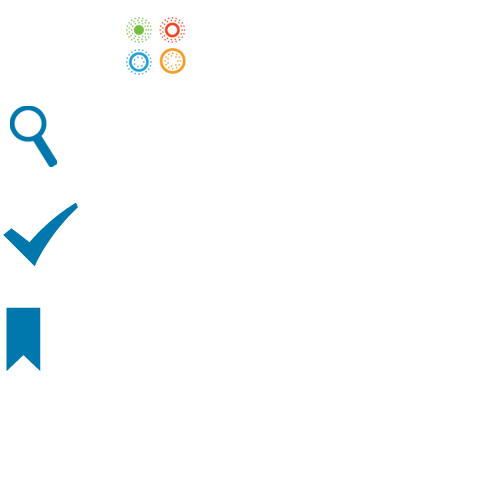
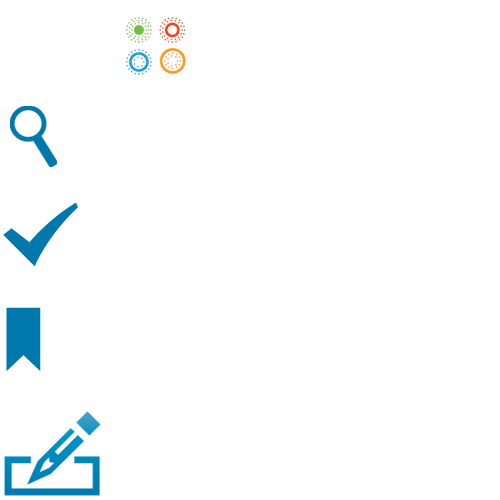
more_info start

Changed region(s): [[0.0, 0.81, 0.21, 1.0]]

diff --git a/public/stylesheets/verisk.css b/public/stylesheets/verisk.css
@@ -342,8 +342,9 @@ header #top_links li.divider a {
   background: url(../images/service_pages/gray_box_bg.png) repeat-x scroll 0 0 #DEDEDE;
 }
 .gray_box.thin {
-  width: 938px;
+  width: 936px;
   padding: 0px;
+  margin-left: 1px;
 }
 .gray_box h2 {
   font-size: 20px;
@@ -357,7 +358,7 @@ header #top_links li.divider a {
   padding: 10px;
   position: relative;
   text-align: center;
-  width: 287px;
+  width: 290px;
   font-size: 12px;
 }
 .gray_sub_box.single {
@@ -372,6 +373,9 @@ header #top_links li.divider a {
 }
 .gray_sub_box span.top_title {
   font-weight: 500;
+}
+.gray_sub_box span, .gray_sub_box p {
+  font-family: Helvetica, Arial, sans-serif;
 }
 .gray_sub_box h2 {
    padding: 9px 0 2px;
@@ -496,6 +500,14 @@ aside div.sidebar, div.sidebar {
   border-top: 1px solid #CCCCCC;
   clear: both;
   margin: 25px 15px 25px 0px;
+}
+#more_info header.main {
+  font-size: 36px;
+  height: 46px;
+}
+#more_info header.sub_header {
+  font-size: 28px;
+  height: 46px;
 }
 /*****************************************************************************************************************/
 /*********************************************************************************** TEXT LOGOS ******************/
@@ -2416,6 +2428,17 @@ footer {
   color: #fff;
   text-decoration: none;
 }
+#resource_links .button a {
+  display: block;
+  width: 100%;
+  height: 100%;
+  position: absolute;
+  top: 0px;
+  left: 0px;
+  padding-top: 12px;
+  padding-left: 10px;
+  z-index: 2;
+}
 #resource_links .button.right_side {
   margin-right: 0px;
 }
@@ -2521,4 +2544,16 @@ select{padding:4px 0px;}
 select:focus{border:2px solid #72bf44;}
 div.field{float:left;margin:5px 10px;}
 input[type="text"],input[type="password"]{padding:3px;}
-form div.field{position:relative;width:270px;float:left;margin:15px;}
+form div.field{position:relative;width:215px;float:left;}
+form div.field input { width: 215px;}
+form div.field .button { width: 215px;}
+form div.field.actions .button {margin-top: 21px;margin-left: 3px;}
+.contact_form_icon {
+  position: relative; float: left;
+  display:block;
+  width: 109px;
+  height: 100px;
+  margin-right: 10px;
+  margin-bottom: 10px;
+  background: url(../images/verisk/verisk_icons.png) 0px -400px no-repeat;
+}
